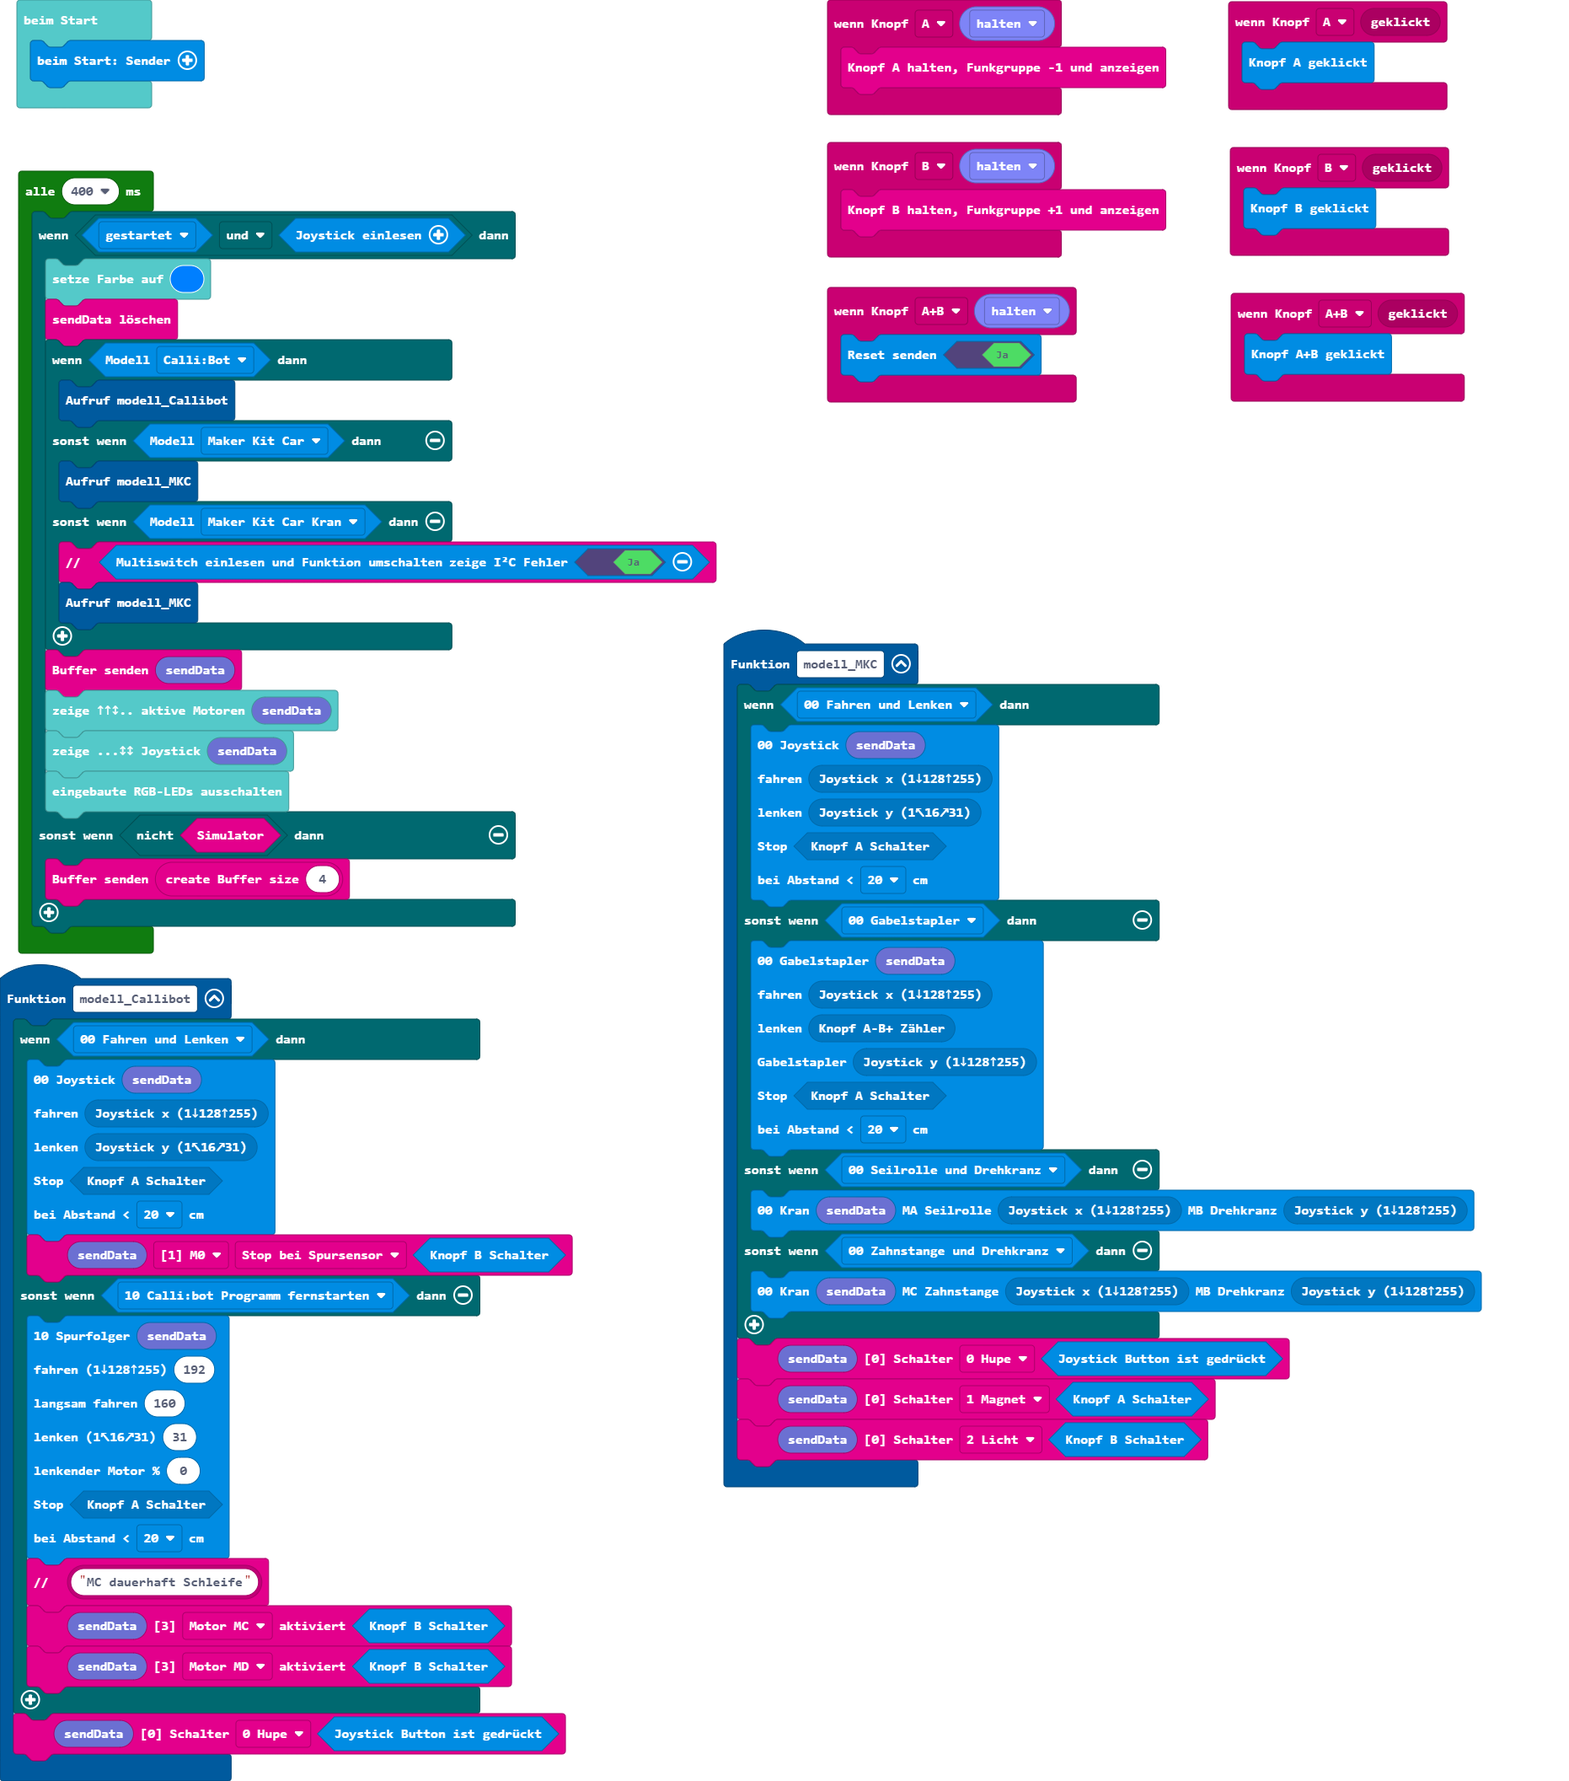
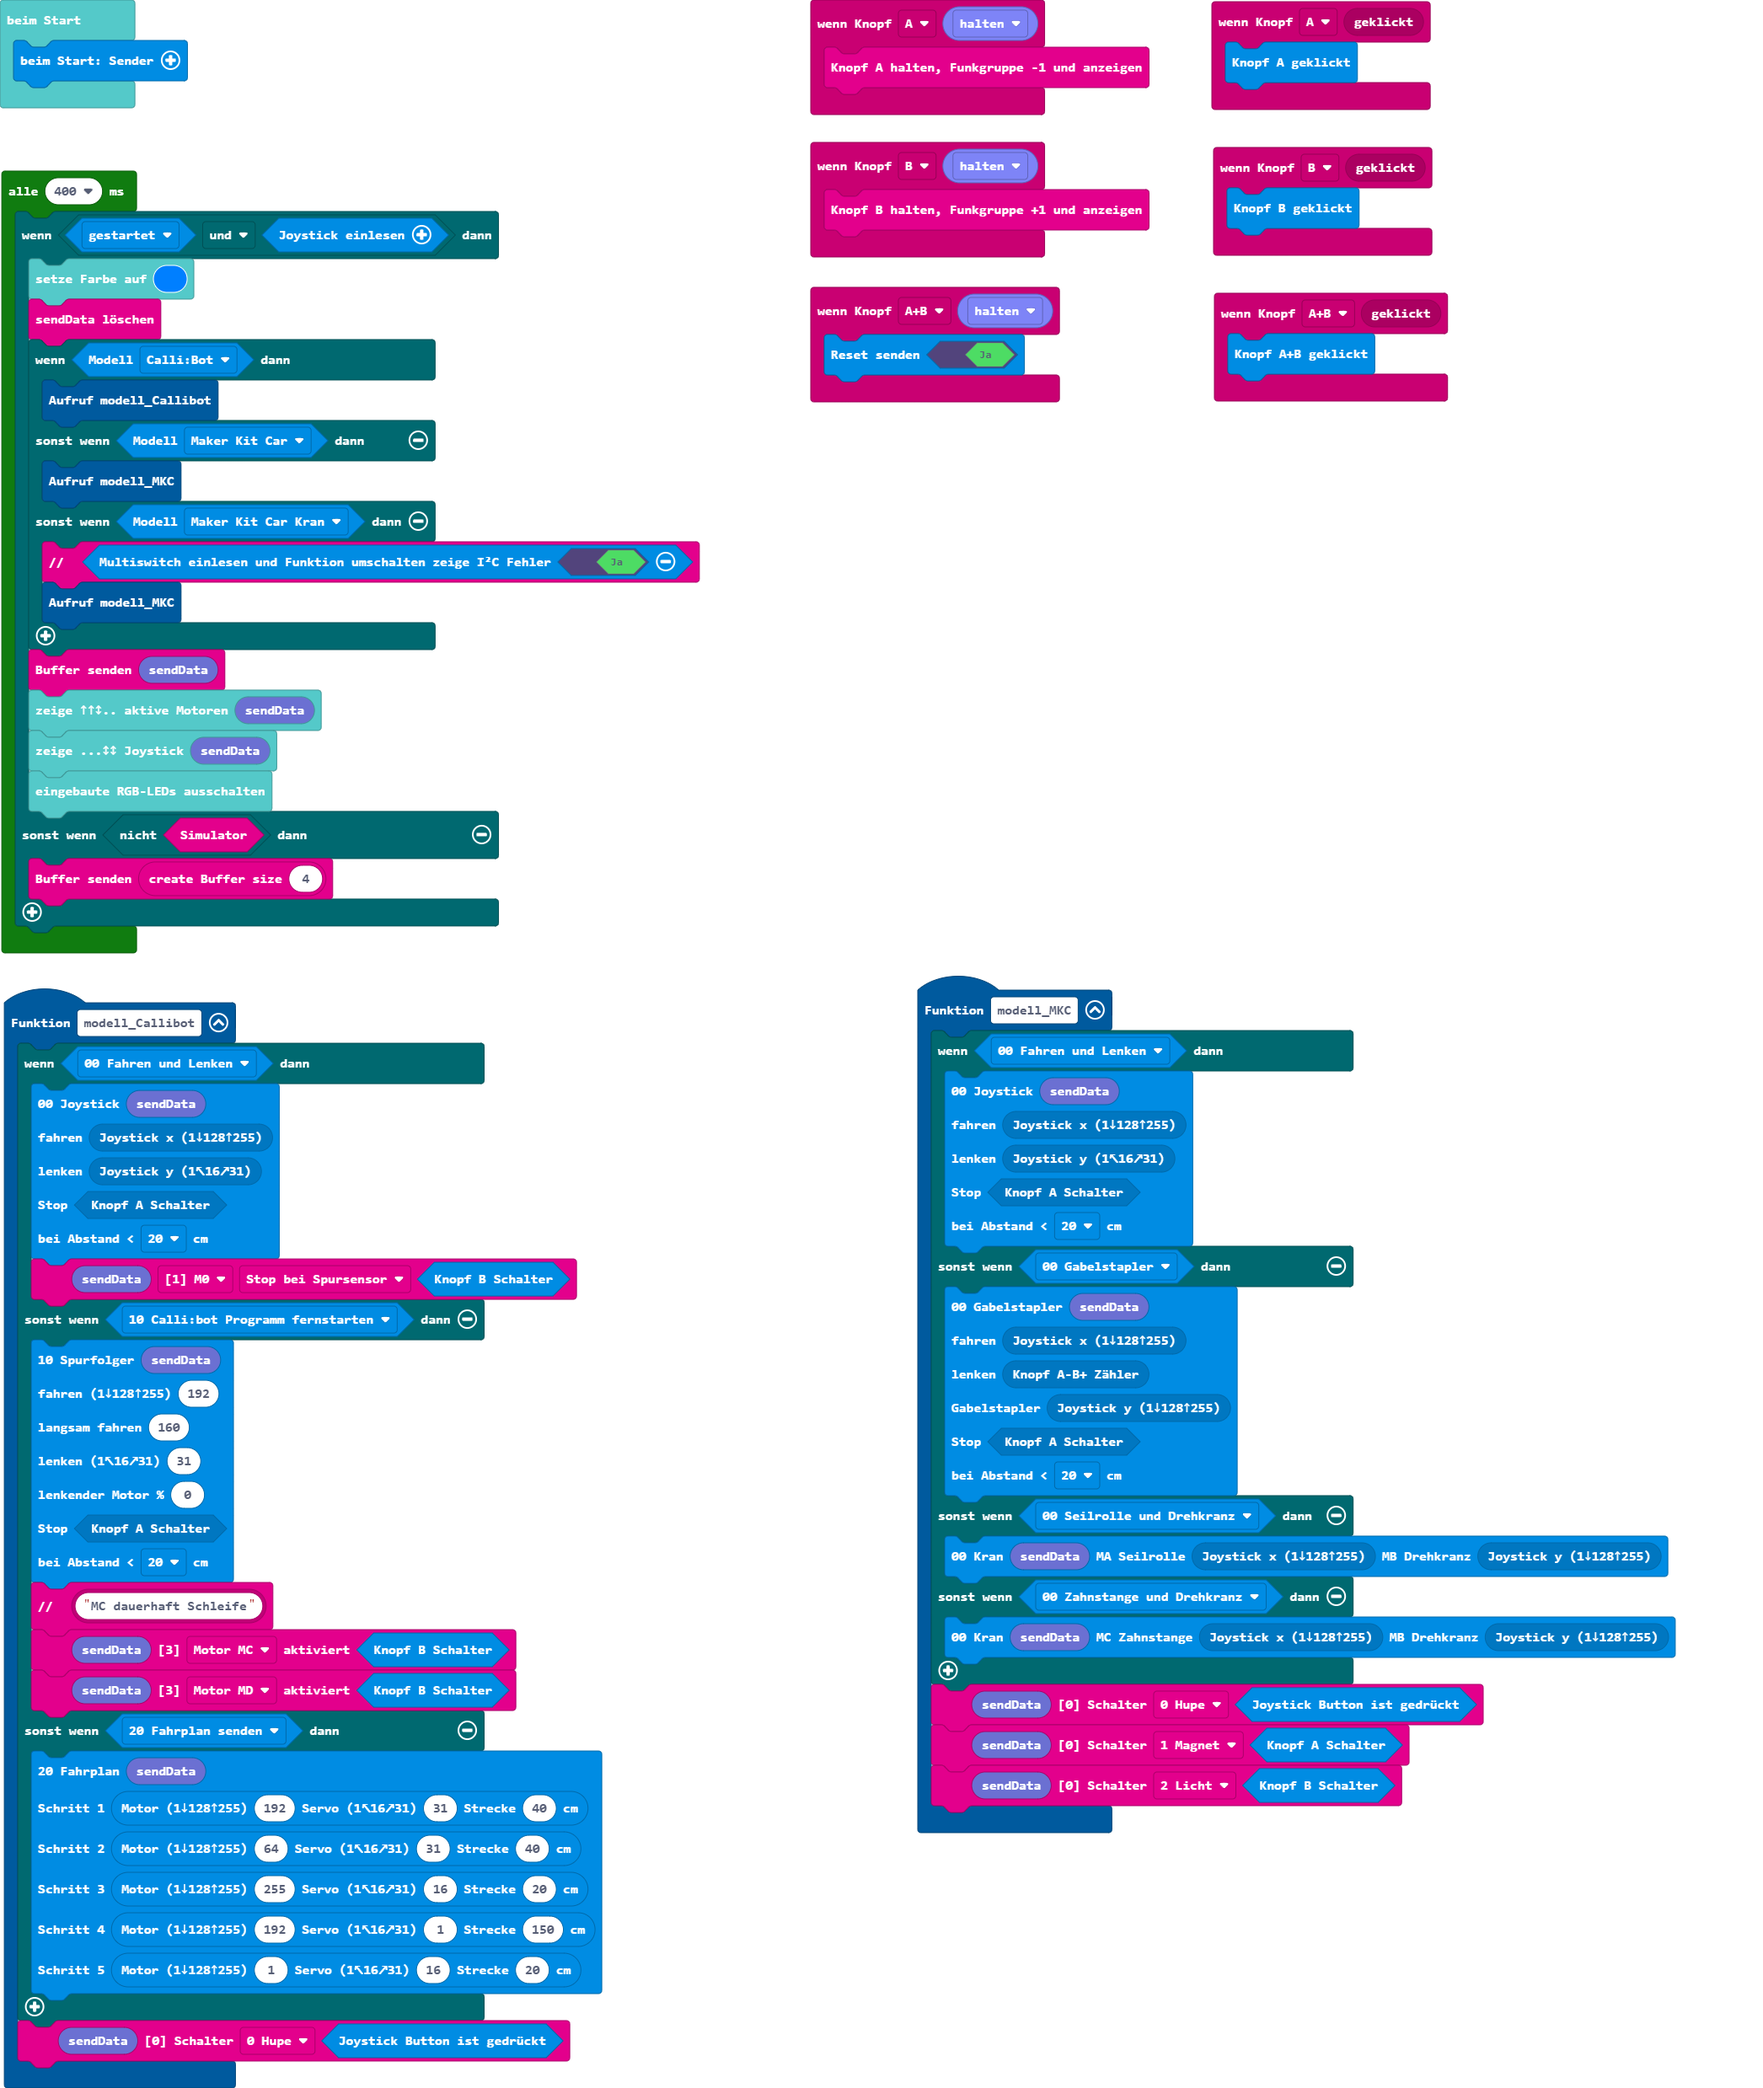
Aktualisiere pxt.json, main.blocks, main.ts

diff --git a/main.ts b/main.ts
@@ -21,6 +21,15 @@ function modell_Callibot () {
         btf.comment(btf.btf_text("MC dauerhaft Schleife"))
         btf.setaktiviert(btf.btf_sendBuffer19(), btf.e3aktiviert.mc, sender.sender_ButtonB_Switch())
         btf.setaktiviert(btf.btf_sendBuffer19(), btf.e3aktiviert.md, sender.sender_ButtonB_Switch())
+    } else if (sender.isFunktion(sender.eFunktion.m1abcd_fahrplan)) {
+        sender.send20Strecken(
+        btf.btf_sendBuffer19(),
+        sender.sender_programmSchritt(192, 31, 40),
+        sender.sender_programmSchritt(64, 31, 40),
+        sender.sender_programmSchritt(255, 16, 20),
+        sender.sender_programmSchritt(192, 1, 150),
+        sender.sender_programmSchritt(1, 16, 20)
+        )
     }
     btf.setSchalter(btf.btf_sendBuffer19(), btf.e0Schalter.b0, sender.joystickButtonPosition())
 }
